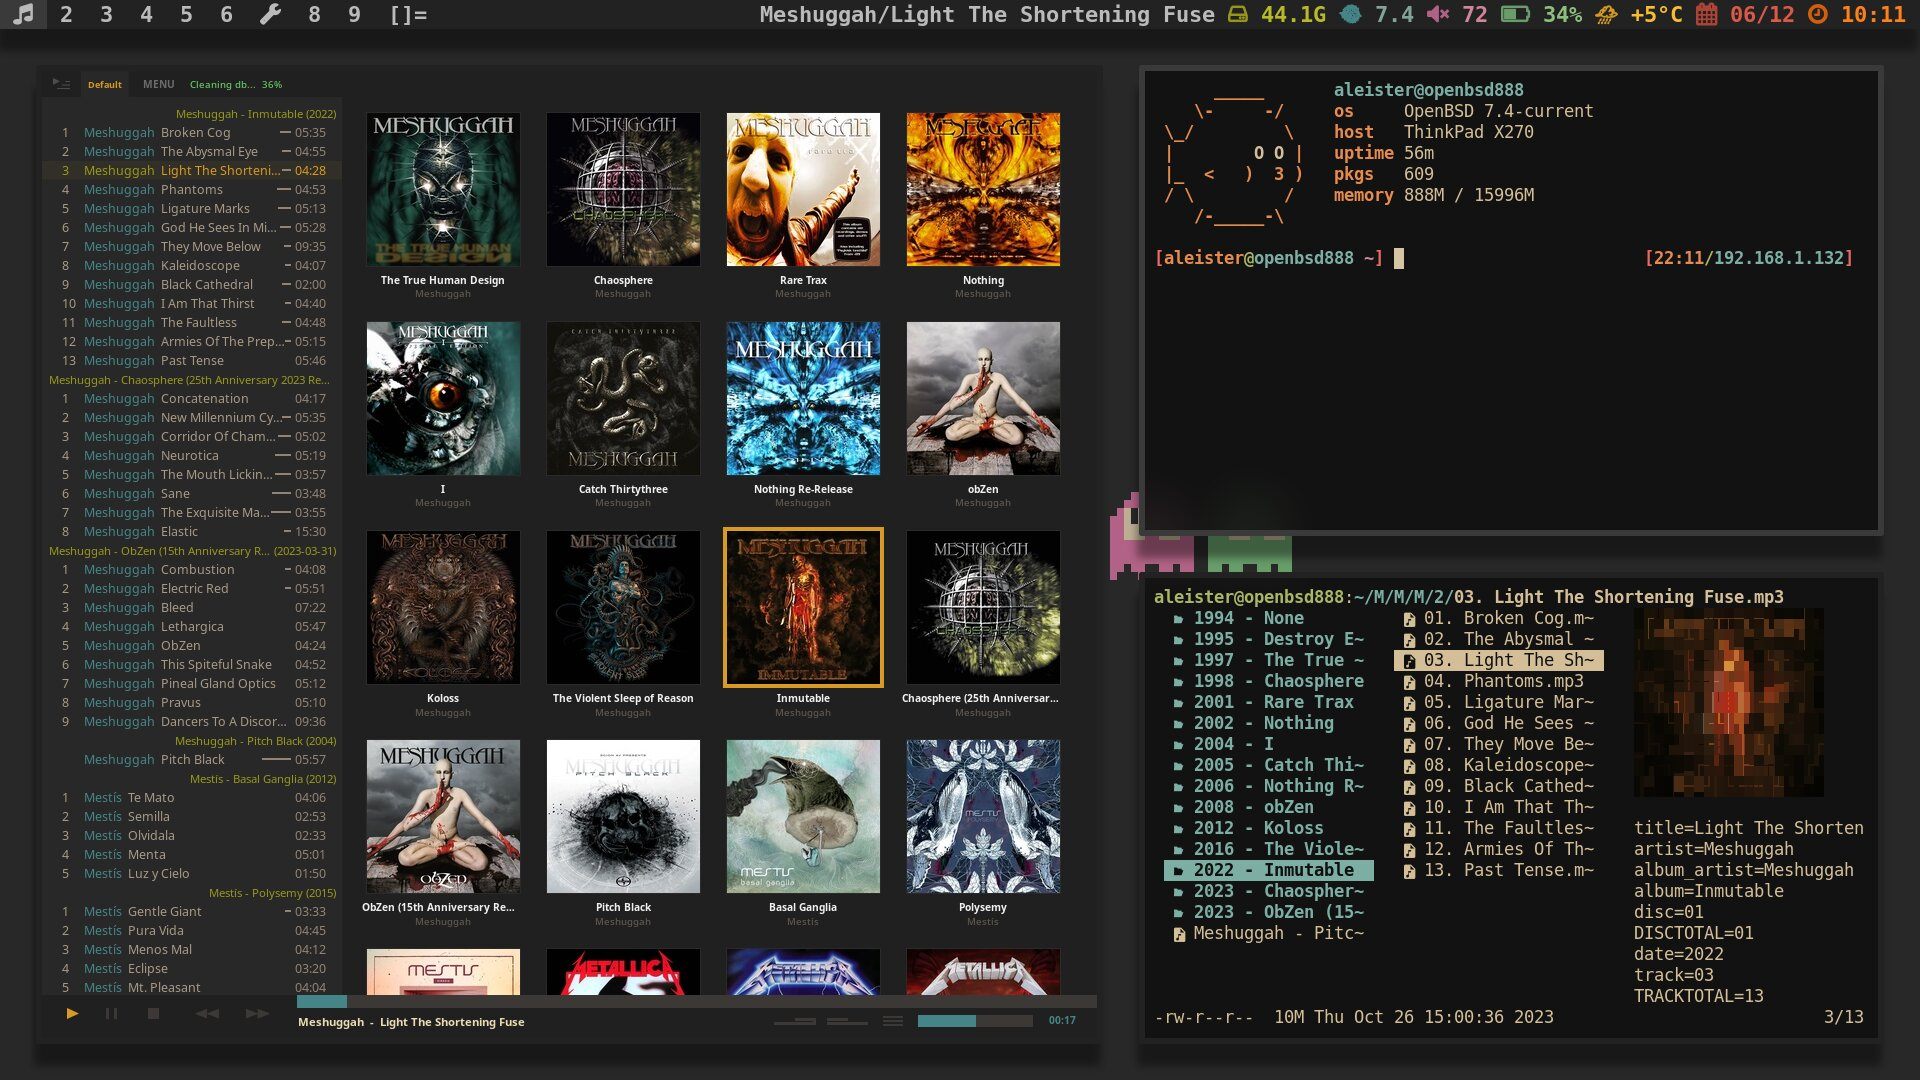
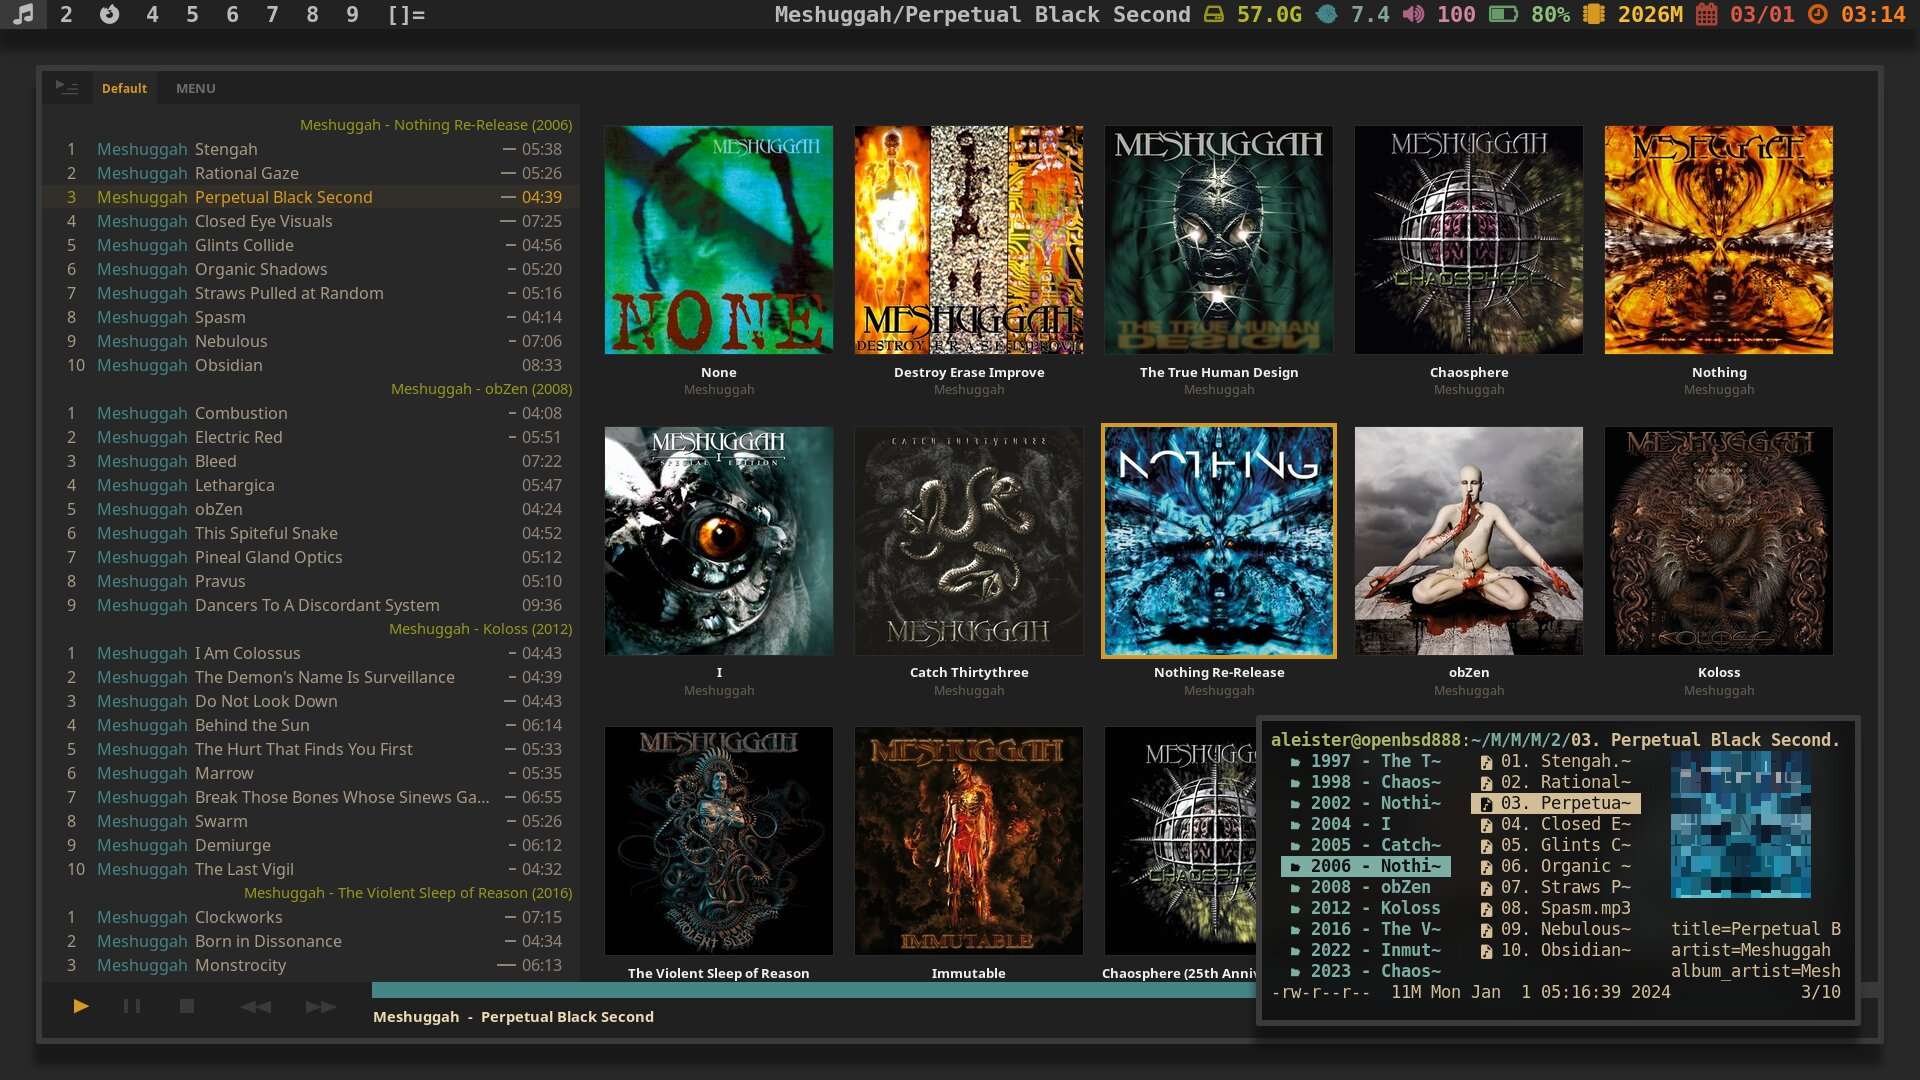
dwm & screenshot changes

diff --git a/dwm/config.h b/dwm/config.h
@@ -56,7 +56,7 @@ typedef struct {
 /* tagging */	/* Sound & Video, Mail, Internet, Office, Games, Graphics, Utilities, Looking-Glass & Virt-Manager, Guitar */
 static const char *tags[] = { "1", "2", "3", "4", "5", "6", "7", "8", "9" };
 static const char *alttags[] = { "", "", "", "", "", "", "", "", "" };
-static const int taglayouts[] = { 0, 2, 0, 3, 3, 0, 0, 3, 0 };
+static const int taglayouts[] = { 0, 2, 0, 0, 0, 0, 0, 3, 0 };
 
 // There are two options when it comes to per-client rules:
 static const Rule rules[] = {
